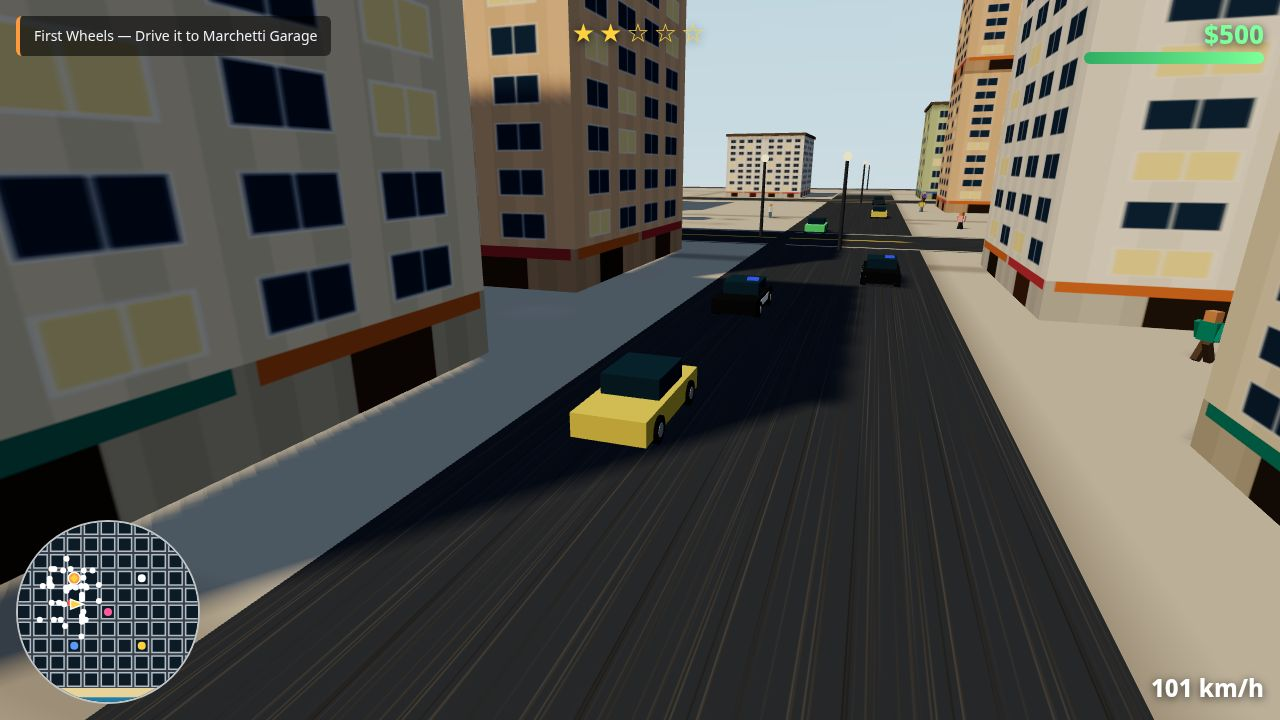
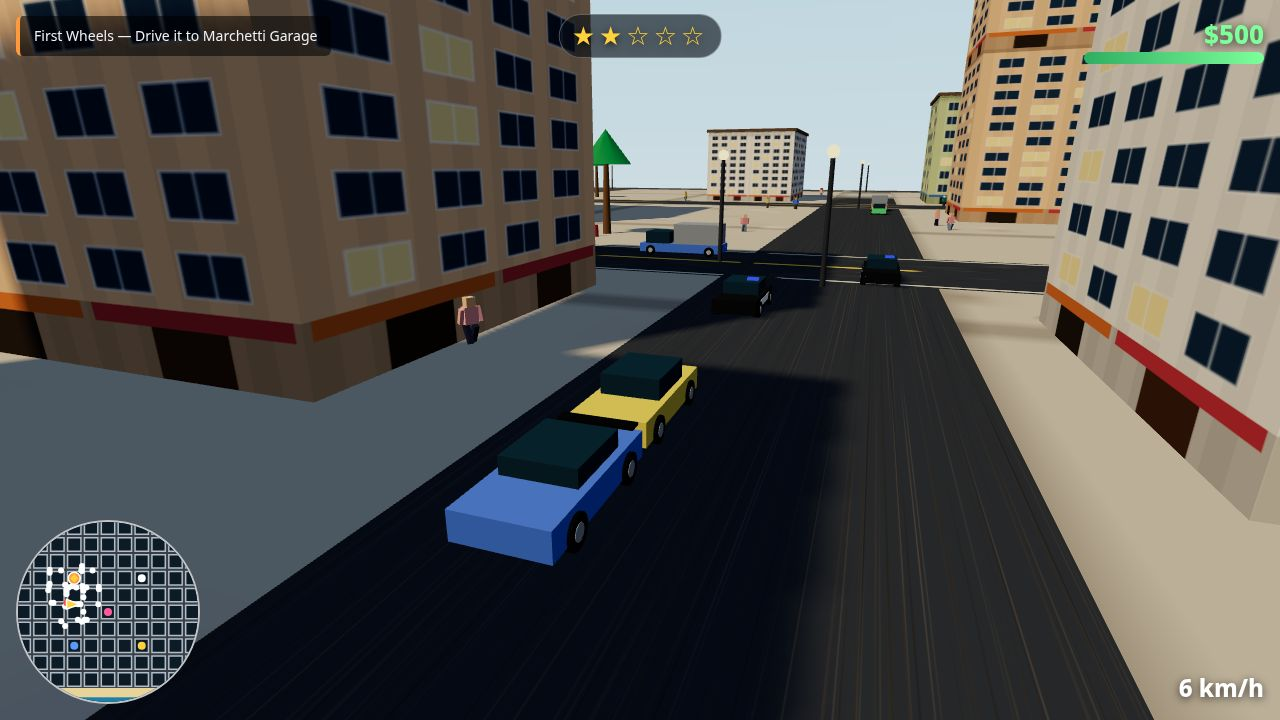
gta6-01 update V4 (R4): retake screenshots, full verification

diff --git a/game/src/shots.js b/game/src/shots.js
@@ -151,11 +151,15 @@ function stageCity(state) {
   state.time = 0;
   completeMissionOne(state); // cash $500, mission 2 to start below
   startMission(state, 1); // Payday Pickup — beacon at the tower drop
-  putPlayerInCar(state, -180, 39, Math.PI / 2);
-  // Drive 4 s straight east along the road toward the tower so it
-  // looms large ahead (the car stops ~90 m short — the drop at (0,24)
-  // is never reached, so the beacon stays on the tower).
-  simulate(state, 240, { x: 0, z: 36 });
+  // Start close to the tower (~68 m west of it) and drive a short
+  // burst east, so the car stops ~60 m short of the tower instead of
+  // ~90 m: from 90 m out the tower's west-face sign reads as a sliver
+  // behind the foreground block, but from ~60 m the west face reads
+  // nearly head-on — and the sign sits low enough in the frame to
+  // clear the HUD row. The drop at (0,24) stays ~60 m away, so it is
+  // never collected and the beacon stays on the tower.
+  putPlayerInCar(state, -68, 39, Math.PI / 2);
+  simulate(state, 60, { x: 0, z: 36 });
   // Busy street: pull traffic and pedestrians onto the road ahead of
   // the car so the cover shows a living street, not an empty road.
   const p = state.player.pos;
@@ -187,9 +191,13 @@ function stageCity(state) {
   });
   simulateAmbient(state, 20);
   const h = state.player.heading;
-  // Level camera (pitch ~0.12): the tower's neon sign sits ~28 m up,
-  // and the old steep chase pitch put it above the frame top.
-  frameCamera(state, h + Math.PI, 0.12, 12);
+  // Near-level camera (pitch ~0.06) swung ~20° toward the tower
+  // (north): the car stays centre-frame while the tower — and its
+  // neon sign at ~29 m — sit in frame left of it. The old
+  // straight-behind framing put the tower at the frame edge, half
+  // hidden behind the foreground block; a steeper pitch would push
+  // the sign above the frame top from this closer viewpoint.
+  frameCamera(state, h + Math.PI + 0.35, 0.06, 12);
   hideBanner(state);
   hideHint(state);
   state.shakeTime = 0;
